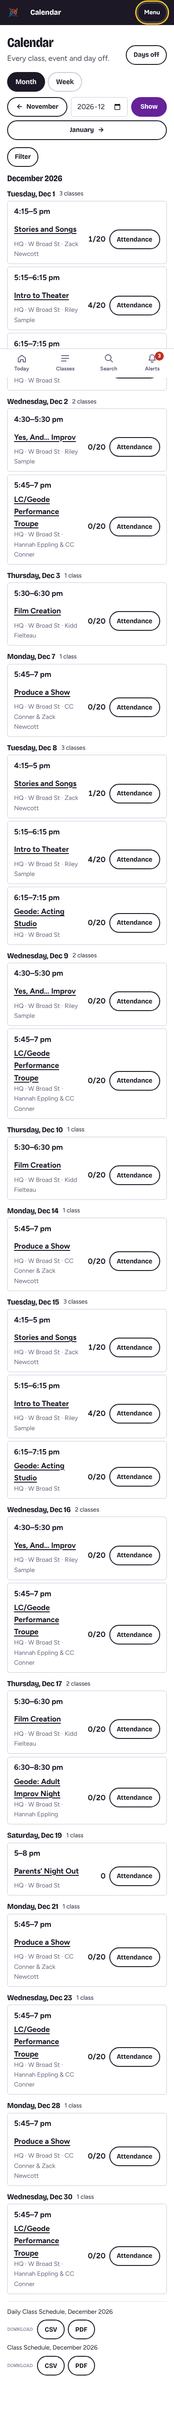
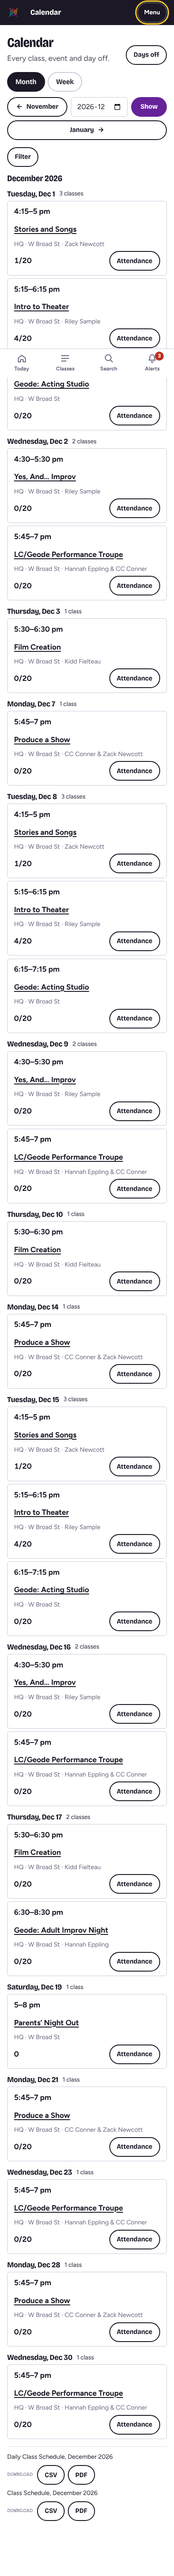
Calendar unit: report, state, screenshots
Claude-Session: https://claude.ai/code/session_014uFyzJWn64vzaD7y4hXVfs

diff --git a/.orchestration/calendar/report.md b/.orchestration/calendar/report.md
@@ -1,0 +1,72 @@
+# Calendar unit: report
+
+Branch `claude/bo2-calendar` (from `claude/blissful-archimedes-enun5m` at acfb1b2). No compaction or restart occurred.
+
+## Result
+
+**For Hannah**
+- **Calendar** (top bar after Classes; phone menu): every class with its time, title and "8/12", the site's events, and days off (a red band for every class; a struck-through class for its own). Today is outlined. Month grid on a computer, the same month as a list of days on a phone, and a Week view with each class's class page and that date's Attendance link. Filters: program, location, teacher. Downloads (fresh sign-in): Daily Class Schedule and Class Schedule, CSV and PDF.
+- **Settings → Days off** (a tile on Settings): add a date or a range, every class or some, and a reason; "Check what changes" shows every class (children), each monthly payment now and lowered by one class, "Already paid: give a credit", "No change" (paid up front, by the session, free first class, no charge), drop-ins booked, and refuses a class whose attendance was taken. She must pick "Lower that month's payments by one class" or "Don't change payments" before Save (fresh sign-in). The list shows upcoming and past days off, what was done about payments, the families to credit, and Remove (with a preview of the payments that go back up).
+- **A class's page:** a Dates part: every meeting, days off struck through with the reason, past dates greyed, "N classes left", and "Add a day off" that ticks that class.
+- **Today:** "No classes today: Thanksgiving" on an every-class day off; "Day off: reason" on a class's own.
+
+**For families**
+- One short email per family: "No class Dec 8", each child and class, and "your December payment is now $36 (was $55)" when it changed. Only for dates today or later.
+- Account: "No class Dec 8 (Snow day)" under each class in Coming up ("Next" skips days off); a lowered month shows "Day off Dec 8 (Snow day): −$19".
+- The class's public page lists "No class …" under each date; both calendar files (.ics) leave days off out (EXDATE).
+- Prices, `meetings()`, proration and a new family's first month are unchanged.
+
+**Files**
+- New: `src/server/days-off.ts`, `src/server/calendar.ts`, `src/pages/admin/calendar.astro`, `calendar.csv.ts`, `calendar.pdf.ts`, `src/pages/admin/settings/days-off.astro`, `tests/unit/days-off.test.ts` (19), `tests/unit/calendar.test.ts` (5), `tests/e2e/staff-calendar.mjs`.
+- Changed: `src/server/adjustments.ts` (target installment, `closureId`, `insertAdjustments(tx, …)`; exported `reapply`, `draft`, `checkInput`, `logSettled`, `Tx`; `addAdjustment` behaves as before), `src/lib/pricing.ts` (`classDaysInMonth` exported only), `src/lib/admin-links.ts` (`calendar`, `classDayRoster`, `settingsDaysOff`), `AdminShell.astro` (Calendar section/menu), `src/server/today.ts` (`TodayClass.sessionId`/`dayOff`, `todayClasses().closed`), `src/pages/admin/index.astro`, `src/pages/admin/classes/[sessionId].astro`, `src/pages/admin/settings/index.astro`, `src/pages/account/index.astro`, `src/pages/programs/[slug].astro`, `src/lib/ics.ts` + both `.ics` routes, `docs/back-office.md` (§18 + link table), `docs/staff-billing.md` ("Days off"), `README.md` (test list), `tests/e2e/staff-foundation.mjs` (one line: the top-bar section list now includes Calendar).
+
+## Proof
+
+- `npm run check`: 0 errors, 0 warnings.
+- `npm test`: 34 files, 642 tests pass (618 before + 24 new).
+- `npm run build`: succeeds.
+- Fresh database (`tests/e2e/serve.sh`), every README browser test in order: enroll-journey, trial-journey, content-editor, navigation, staff-foundation, staff-contacts, staff-classes, staff-families, staff-payments, staff-today, staff-messages (with SERVER_LOG), staff-roster, staff-settings, staff-calendar: all 14 pass.
+- Billing check: copy of `.data/e2e` after the two journeys, `APP_ENV=development PGLITE_DIR=<copy> npm run -s billing:run -- --today 2026-12-01` (keys blank): `$80.75 · December tuition: Ava…` and `$55 · December tuition: Maya…`.
+- In `staff-calendar.mjs`: Dec 8 day off for Intro to Theater with "Lower": preview Maya $55 → $36 (−$19 = $95 ÷ 5 December Tuesdays, after her $40 scholarship); Ava listed as "Already paid: give a credit" $16.15 (staff-payments had marked her December paid earlier in the run); email in the dev mailbox; Maya's account shows "No class Dec 8 (Snow day)" and $36; December's billing run on a copy charges `$36` and not `$55`; Remove puts it back to $55; an every-class "Don't change payments" day off; calendar band; Today "No classes today: Winter break"; downloads; 390 px with no sideways scroll and 44 px tap targets.
+- Screenshots: `.orchestration/calendar/shots/` (month desktop, phone agenda, class dates desktop and phone, day-off preview desktop and phone, days off desktop and phone, family account).
+
+## Decisions
+
+- **Days added together are one group** (same `closure.created_at`), listed and removed together: a week's break is one line. Simple, no migration.
+- **The choice is stored as `closure.adjusted_at`** (set = lowered; null = don't change), as the brief said.
+- **"Already paid: give a credit" is recorded** in the audit log (`admin.day_off.credit_due`, entity order, detail = closure id) and shown on the Days off list, for the credits unit.
+- **A payment being charged right now** counts as already paid (no adjustment), so Hannah never sees a lowered amount that was charged in full. A failed one with the pay-now page open is lowered and catches up at the billing run, as adjustments already do.
+- **Attendance taken blocks the whole save**; she unticks that class (or picks classes instead of every class). Simpler than partial every-class rows.
+- **Booked drop-ins are listed, not cancelled** (the drop-ins unit owns cancelling); their families get the "No class" email.
+- **Emails only for dates today or later**; a past day off is a record.
+- **Removing a day off doesn't email families.**
+- **A paid month's day-off adjustment is kept (not marked removed)** on removal, since it's what was charged; its `closure_id` goes null with the row.
+- **`classDayRoster(sessionId, date)`** added to `admin-links.ts` for the teacher app's `/admin/teach/<id>/<date>` (that unit may have its own name for it).
+- **Every class means staff sessions** (`staffSession`); one row per date, including dates with no class.
+- **The month view on a phone is the list** (CSS), so 390 px is the agenda by default with no extra parameter.
+
+## Open points
+
+1. **Email when a day off is removed?** Recommend: yes, a short "Class is back on Dec 8" with the amount, in a later pass; today nothing is sent.
+2. **Public `/calendar` page** doesn't exist (only `/calendar/<id>.ics`); the .ics files leave days off out. Recommend: nothing more until there is a public calendar page.
+3. **Trial on a closed date:** a free first class booked for a day off is listed under "No change: Free first class"; Hannah moves it by hand. Recommend: fine for now.
+4. **Family discount changing after a day off:** the day-off amount is fixed when saved (computed from that month's base then). Recommend: keep; it's rare and always in the family's favor or neutral.
+5. **Overlapping days off:** a class with its own day off and a later every-class one on the same date: the class is skipped in the second; removing the first leaves the class off (by the second) without an adjustment. Recommend: accept; noted in docs.
+
+## Follow-up candidates
+
+- Credits unit: read `admin.day_off.credit_due` (or recompute) to turn "give a credit" into credits.
+- Drop-ins unit: offer "Cancel and refund" from the day-off preview.
+- Teacher app: leave classes with `TodayClass.dayOff` out of "Not taken"; use `dayOffOn` to refuse attendance (already in §17).
+- Show rehearsals (`show_rehearsal`) on the calendar when the shows unit lands.
+
+## Handoff
+
+- Routes: `/admin/calendar` (`?month=YYYY-MM`, `view=week&week=YYYY-MM-DD`, `program`, `location`, `teacher`), `/admin/calendar.csv|.pdf` (`report=classes` for the Class Schedule), `/admin/settings/days-off` (`?class=<id>&which=some` prefill, `?step=check&…` preview, `?remove=<closure id>`).
+- Links: `calendar(month?, params?)`, `classDayRoster(sessionId, date)`, `settingsDaysOff(sessionId?)`.
+- `src/server/days-off.ts`: `previewDayOff`, `addDayOff`, `previewRemoval`, `removeDayOff`, `daysOffList`, pure `planDayOff`, `familyNotices`, `oneClassCents`, `noClassLine`, `datesLabel`. Adjustments: reason "Day off Nov 26 (Thanksgiving)", `kind amount`, `repeat once`, `installment_id` = that month's, `closure_id` set, shown to the family.
+- `src/server/adjustments.ts`: `AdjustmentInput.installmentId?` / `closureId?`; `insertAdjustments(tx, staff, inputs, now)` for several on one order in the caller's transaction (credits can use it).
+- `src/server/calendar.ts`: `calendarRange`, pure `calendarDays`, `teachersBySession`, schedule tables.
+- `src/server/today.ts`: `TodayClass.sessionId`, `TodayClass.dayOff`; `todayClasses()` returns `closed` (an every-class `DayOff` or null).
+- Shared-file additions: README test line, `docs/back-office.md` §18 (renumber at merge), admin-links (3 functions), AdminShell (Calendar entries), today.ts (fields above). No migrations.
+- `tests/e2e/staff-calendar.mjs` runs after staff-settings and depends on its state (Ava's December paid, Maya's declined); it clears its own leftover days off, so it can be re-run.

diff --git a/.orchestration/calendar/state.md b/.orchestration/calendar/state.md
@@ -17,10 +17,10 @@ Branch `claude/bo2-calendar`, from `claude/blissful-archimedes-enun5m` (acfb1b2)
 - Booked drop-ins are listed, not cancelled (drop-ins unit owns cancelling).
 - Emails only for dates today or later.
 
+- Calendar page, days-off page, class Dates, Today, account, public page, .ics, docs, e2e — all done; see report.md.
+
 ## Next
-- Calendar server + `/admin/calendar` (month, week, agenda), CSV/PDF, menu, links.
-- `/admin/settings/days-off` pages; class page Dates; Today; account; public class page; ics EXDATE.
-- e2e `staff-calendar.mjs`, docs, README, report.
+- Nothing; unit complete. Report in `.orchestration/calendar/report.md`.
 
 ## Open questions
-- None yet.
+- See report.md → Open points (none blocking).
